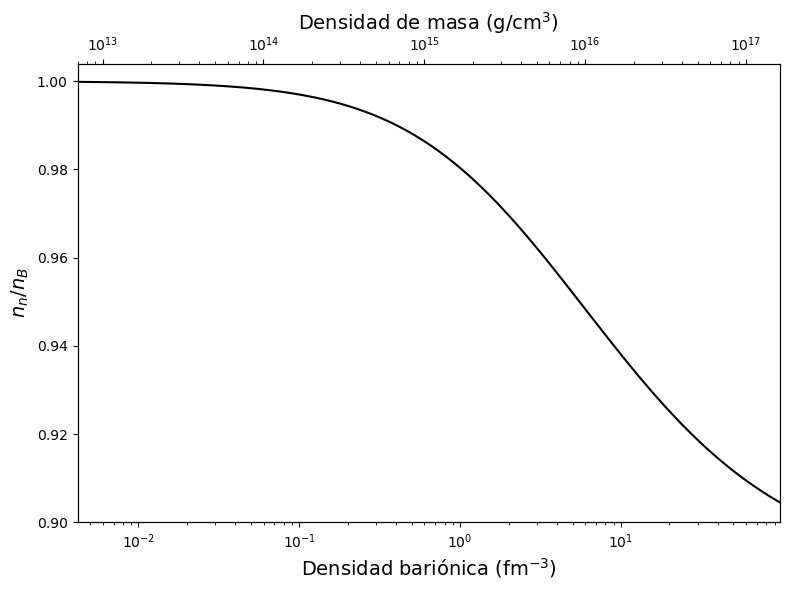
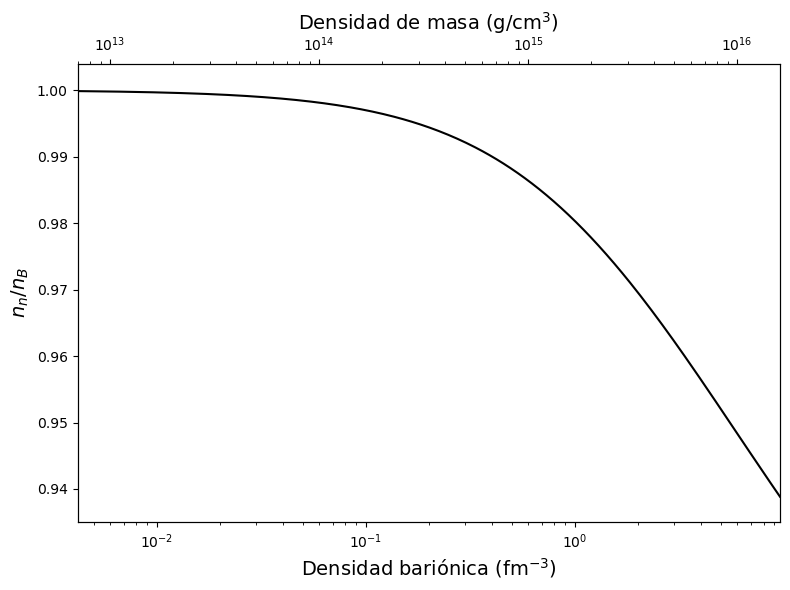
Ajusta la figura de fracción de neutrones y actualiza la descripción de su comportamiento en función de la densidad bariónica.

diff --git a/Libro_Trabajo_de_Grado/Chapter3/chapter3.tex b/Libro_Trabajo_de_Grado/Chapter3/chapter3.tex
@@ -86,16 +86,16 @@ entre los potenciales químicos $\mu_i$, suponiendo que los neutrinos escapan de
 
 \begin{figure}[h]
 	\centering
-	\includegraphics[width=0.85\linewidth]{Figuras/gas_npe_fraccion}
+	\includegraphics[width=0.8\linewidth]{Figuras/gas_npe_fraccion}
 	\caption[Fracción de neutrones en el gas ideal degenerado]{Fracción de neutrones respecto al número de nucleones $n_n/n_B$ como función de la densidad bariónica $n_B$ en un gas ideal degenerado de neutrones, protones y electrones.}
 	\label{fig:gas_npe_fraccion}
 \end{figure}
 
-La figura \ref{fig:eosnpe} muestra la ecuación de estado adimensionalizada para un gas ideal de neutrones, protones y electrones libres, obtenida tras resolver el sistema de integrales (\ref{eq:densidad_fermi_general}) y (\ref{eq:presion_fermi_general}) e interpolar. Adicionalmente, se puede calcular la fracción de neutrones respecto al número total de nucleones (bariones) $n_n/n_B = n_n/(n_n+n_p)$ como función de la densidad bariónica $n_B$, como se muestra en la figura \ref{fig:fraccion_neutrones}. Este modelo predice que la materia en equilibrio beta es predominantemente neutrónica, con una fracción de neutrones que supera el 90\% para densidades entre $7\times 10^{12}$ g/cm$^3$ y $10^{15}$ g/cm$^3$. La fracción de neutrones en este rango de densidades inicia muy cercana al 1, disminuyendo lentamente a medida que la densidad aumenta, alcanzando aproximadamente un 90.5\% al llegar a $10^{17}$ g/cm$^3$, consistente con lo esperado para materia nuclear en equilibrio beta \cite{shapiroBlackHolesWhite2008}.
+La figura \ref{fig:eosnpe} muestra la ecuación de estado adimensionalizada para un gas ideal de neutrones, protones y electrones libres, obtenida tras resolver el sistema de integrales (\ref{eq:densidad_fermi_general}) y (\ref{eq:presion_fermi_general}) e interpolar. Adicionalmente, se puede calcular la fracción de neutrones respecto al número total de nucleones (bariones) $n_n/n_B = n_n/(n_n+n_p)$ como función de la densidad bariónica $n_B$, como se muestra en la figura \ref{fig:gas_npe_fraccion}. Se muestra la fracción de neutrones en el rango de densidades de 7.0$\times 10^{12}$ g/cm$^3$ a 1.6$\times 10^{16}$ g/cm$^3$. La fracción de neutrones en este rango de densidades inicia muy cercana al 100\%, disminuyendo lentamente a medida que la densidad aumenta, alcanzando aproximadamente un 94.5\% al llegar a $10^{16}$ g/cm$^3$, consistente con lo esperado para materia nuclear en equilibrio beta \cite{shapiroBlackHolesWhite2008}.
 
 \begin{figure}[h]
 	\centering
-	\includegraphics[width=0.85\linewidth]{Figuras/gas_npe_MR}
+	\includegraphics[width=0.9\linewidth]{Figuras/gas_npe_MR}
 	\caption[Relaciones masa-radio de gas ideal degenerado]{Relaciones de masa - radio (izquierda) y masa - densidad central de masa (derecha) de estrellas de neutrones constituidas por un gas ideal de neutrones, protones y electrones libres.}
 	\label{fig:mrnpe}
 \end{figure}
